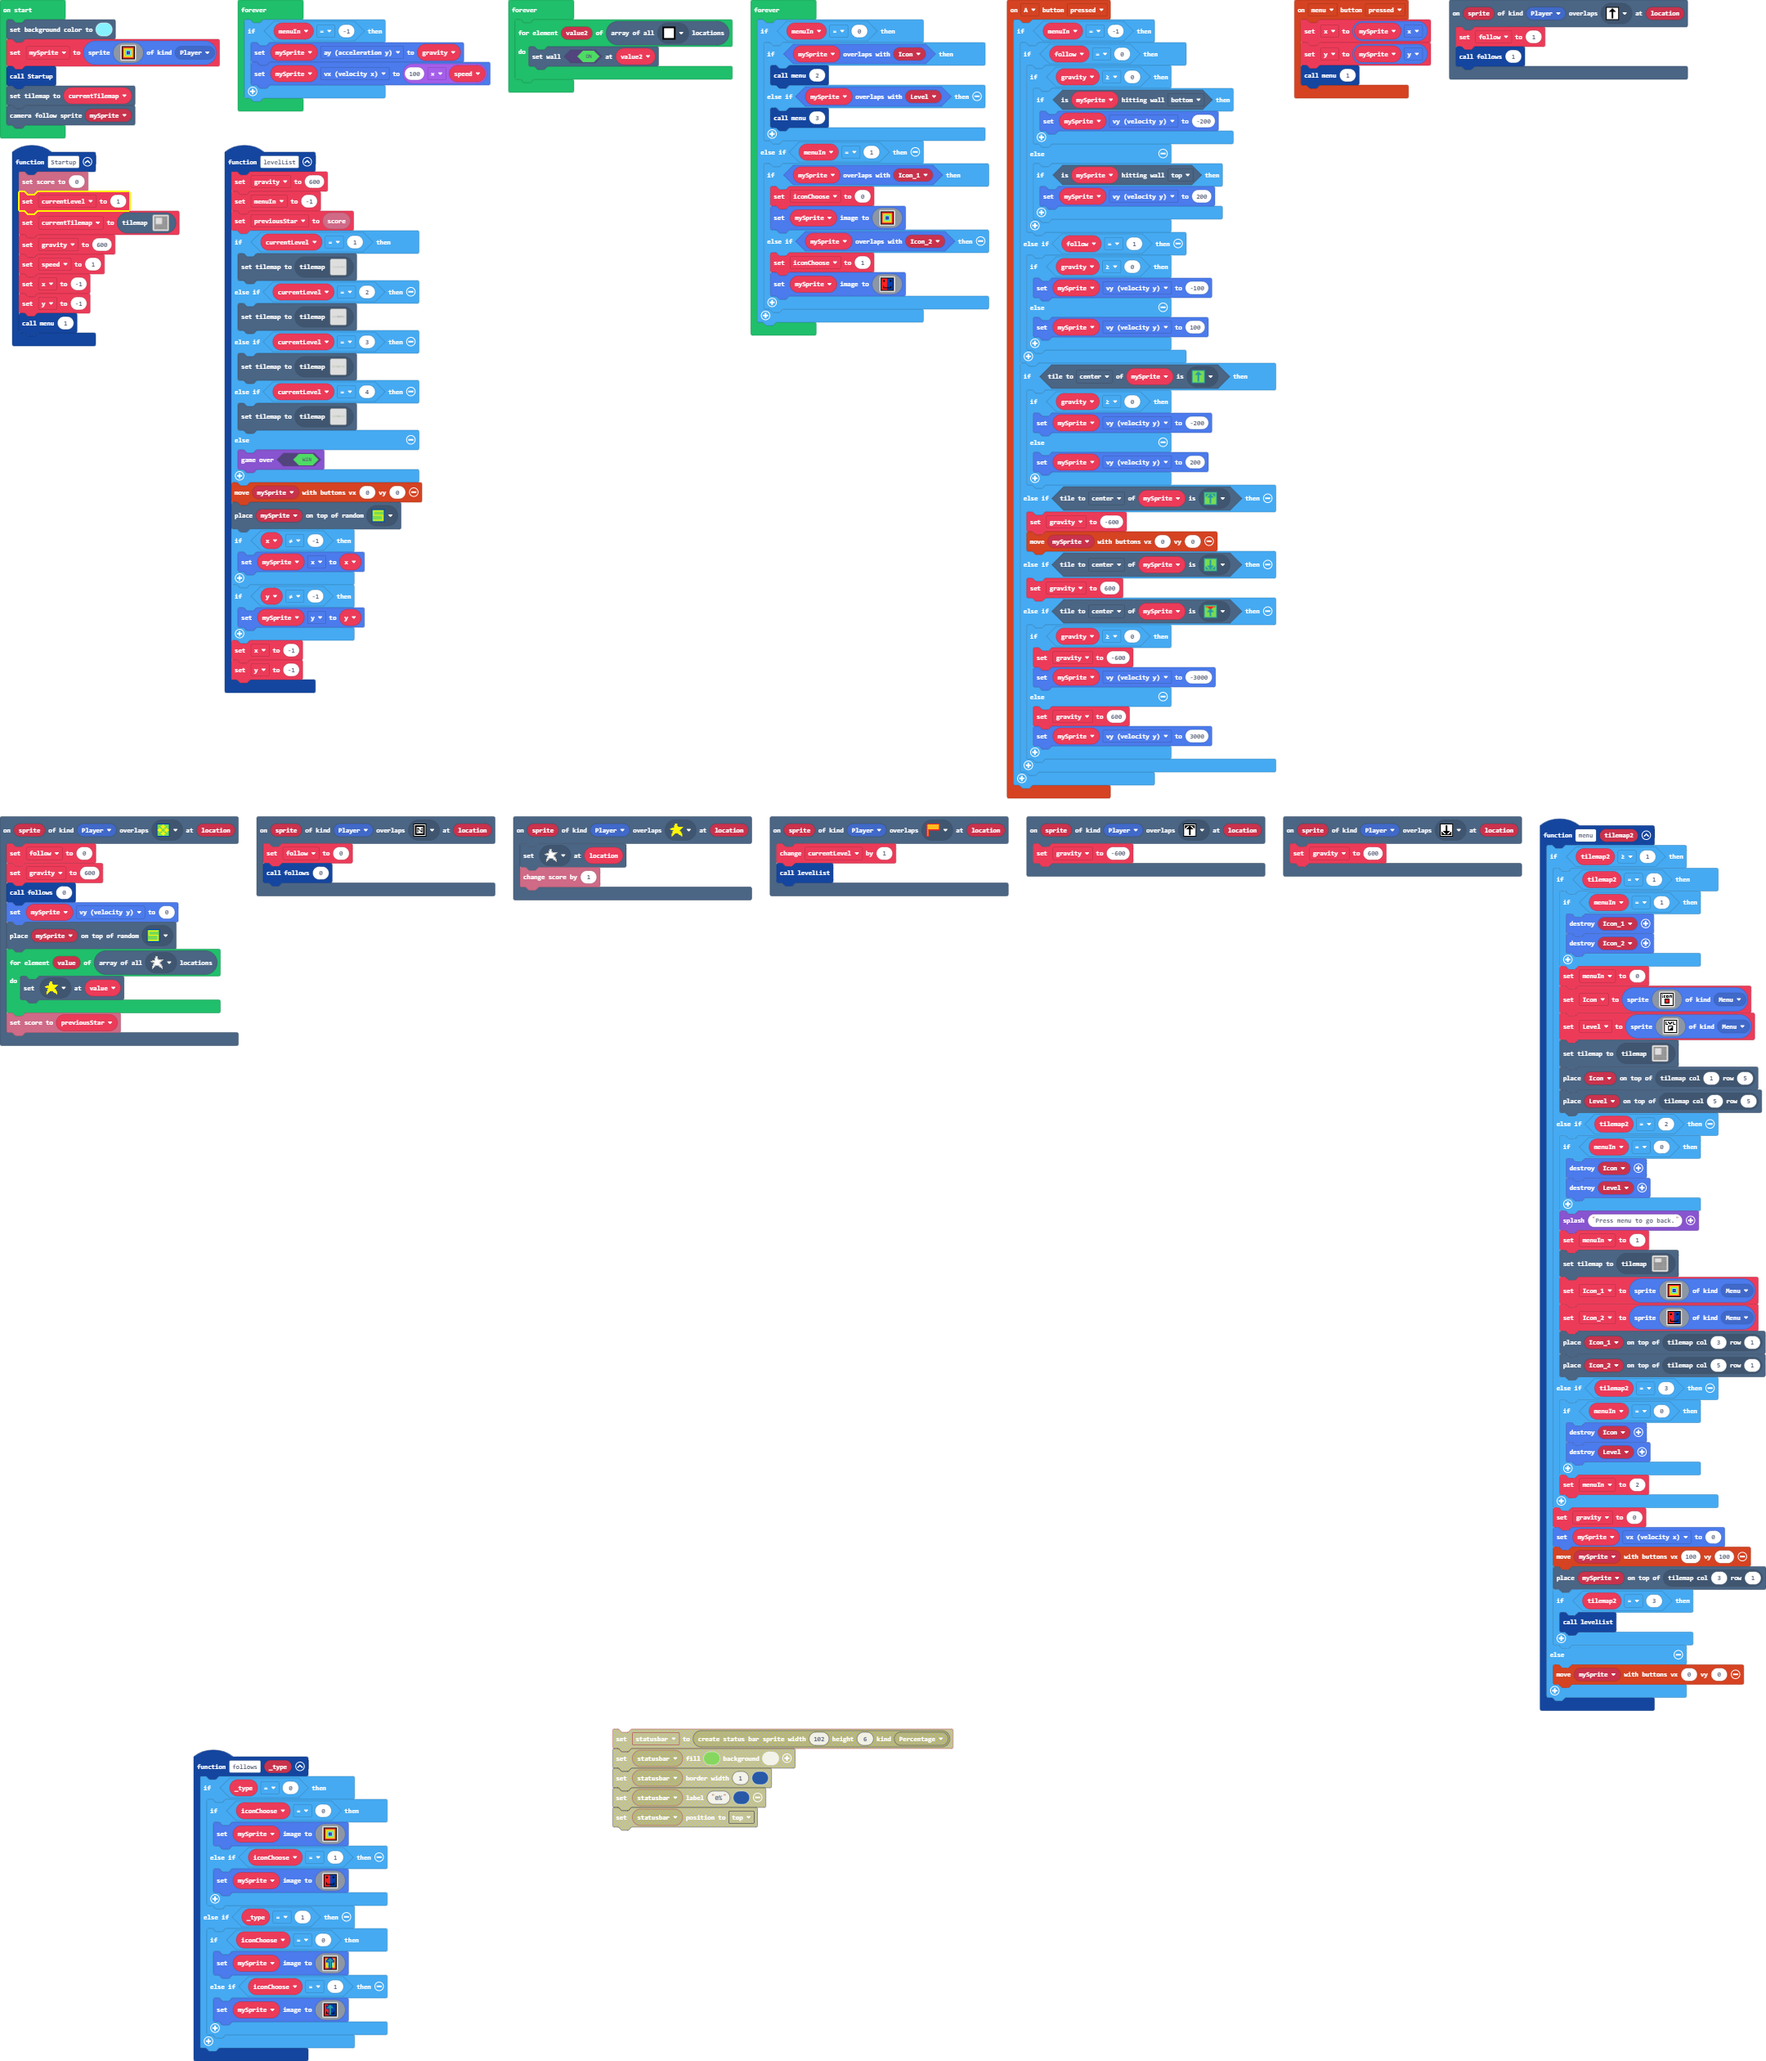
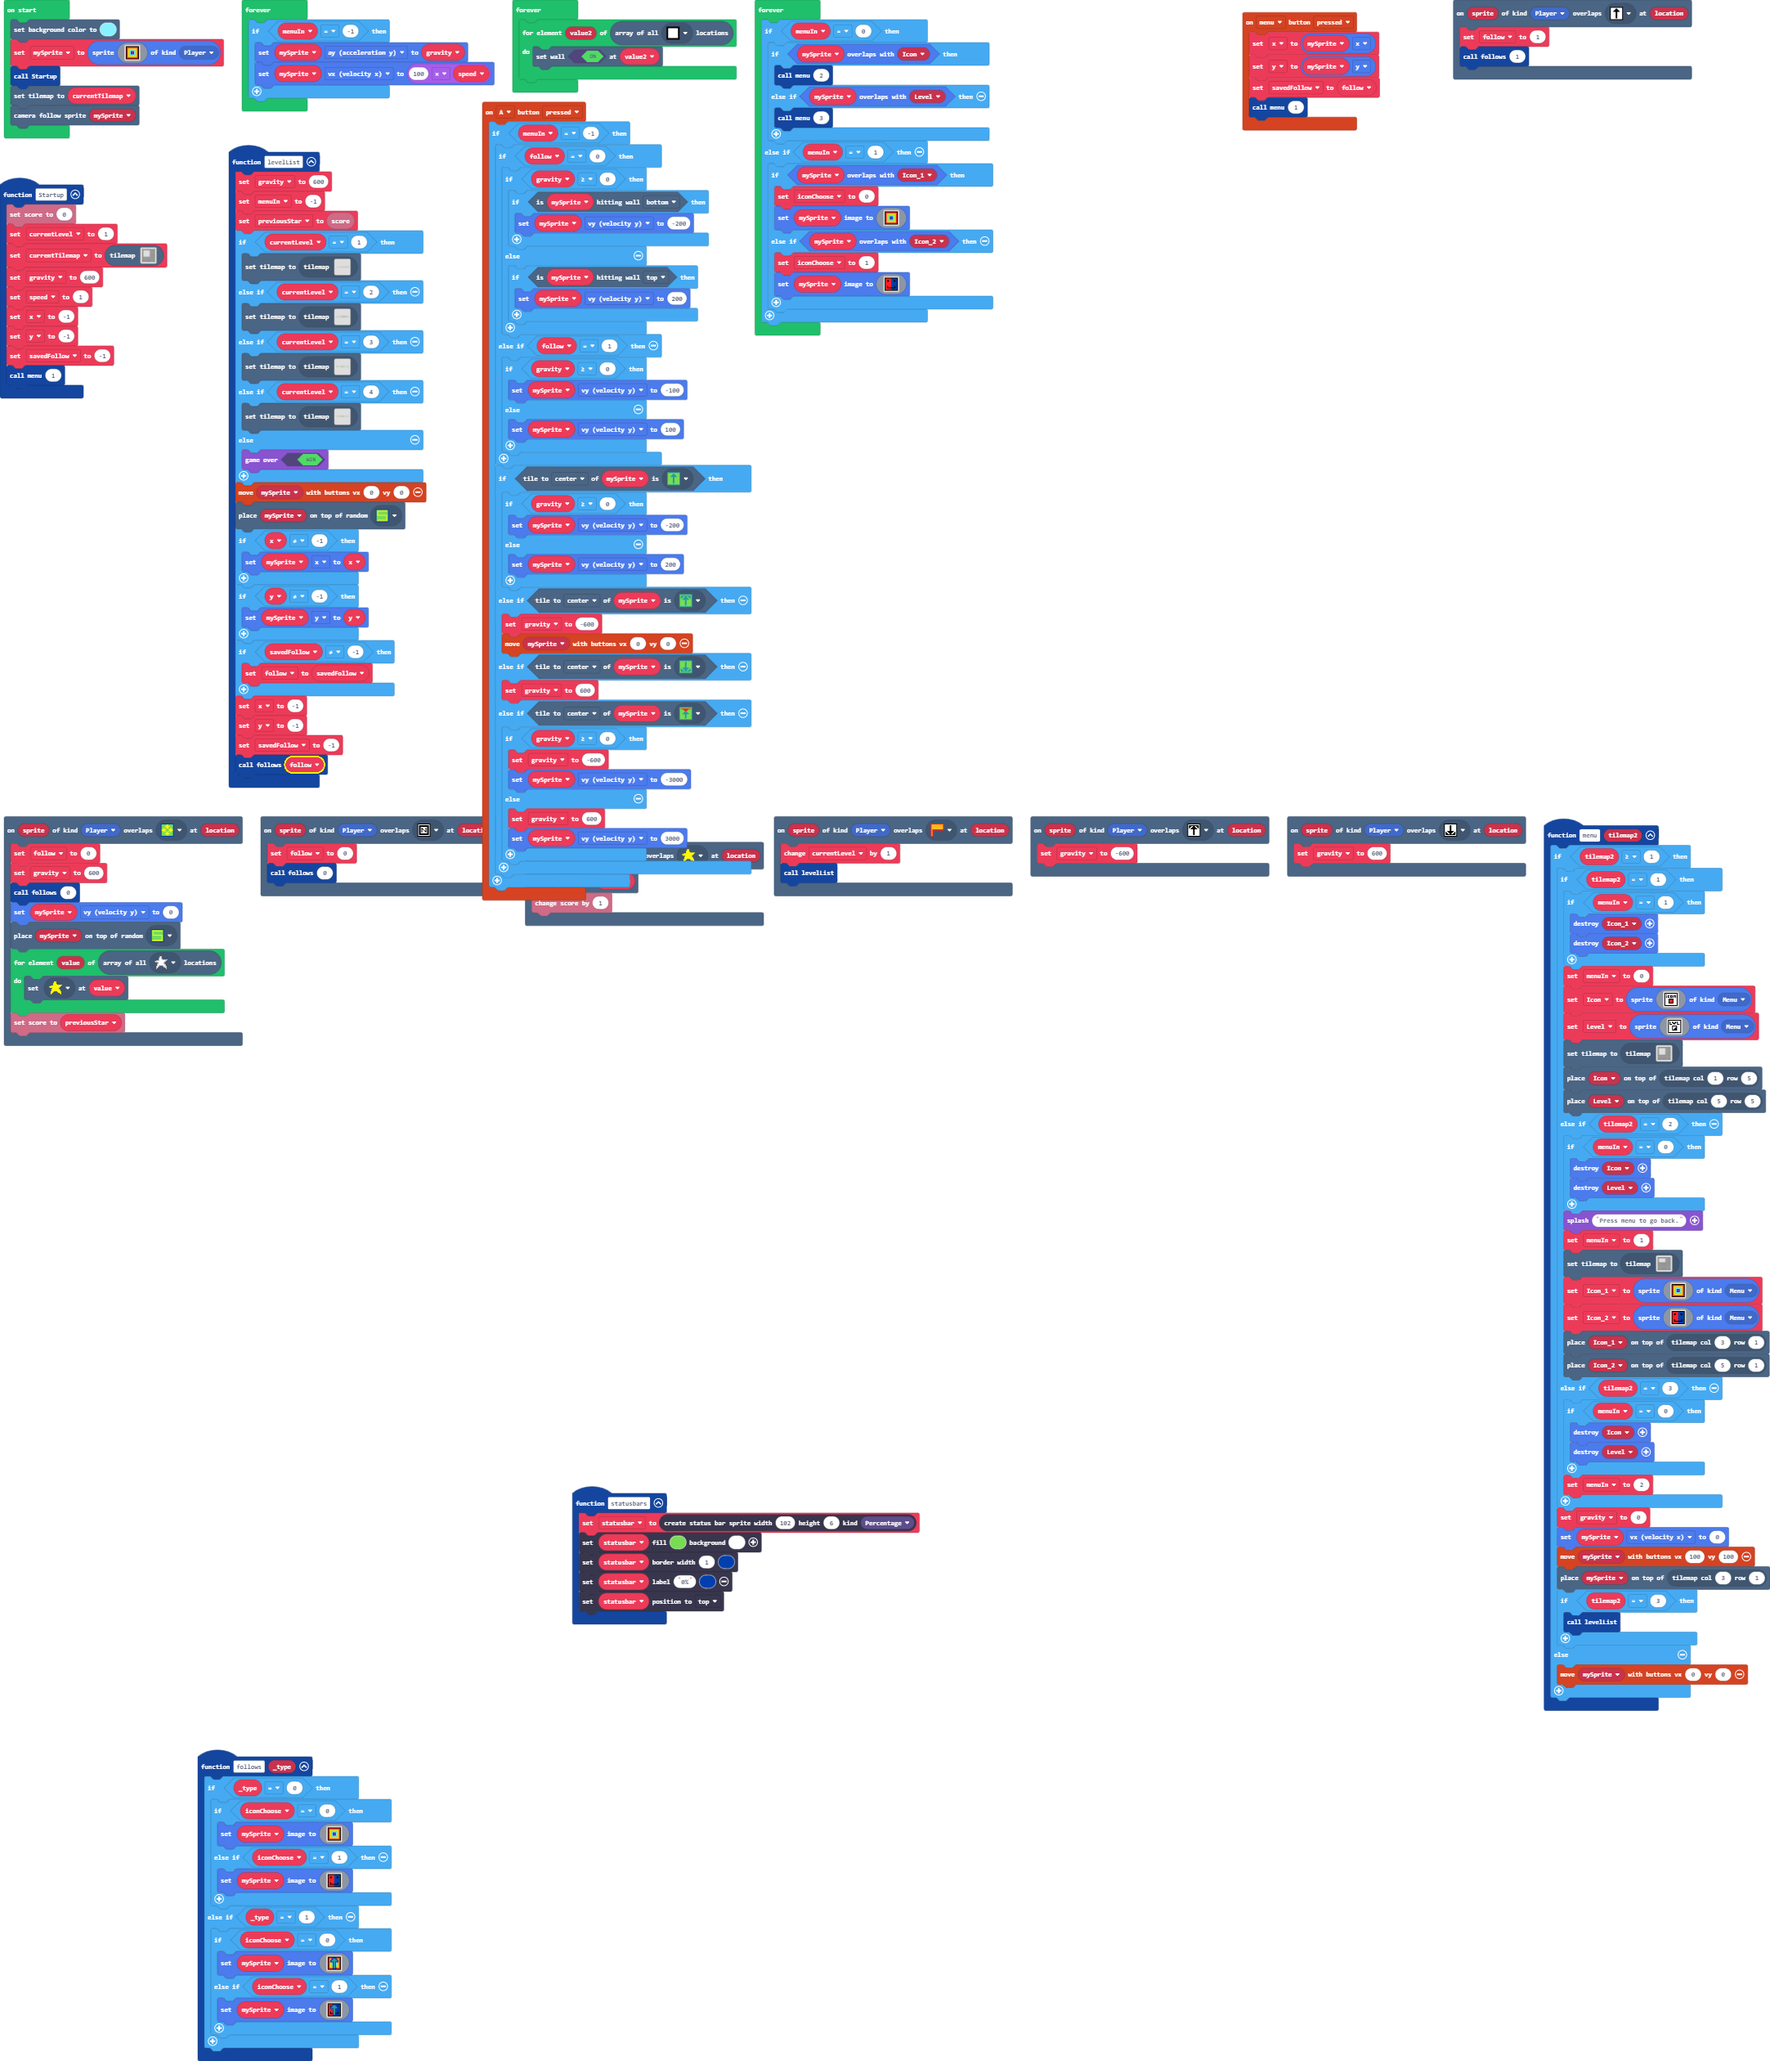
Update main.blocks, main.ts

diff --git a/main.ts b/main.ts
@@ -110,6 +110,13 @@ scene.onOverlapTile(SpriteKind.Player, assets.tile`Jumper Follow`, function (spr
     follow = 1
     follows(1)
 })
+function statusbars2 () {
+    statusbar = statusbars.create(102, 6, StatusBarKind.Percentage)
+    statusbar.setColor(7, 1)
+    statusbar.setBarBorder(1, 8)
+    statusbar.setLabel("0%", 8)
+    statusbar.positionDirection(CollisionDirection.Top)
+}
 function Startup () {
     info.setScore(0)
     currentLevel = 1
@@ -118,11 +125,13 @@ function Startup () {
     speed = 1
     x = -1
     y = -1
+    savedFollow = -1
     menu(1)
 }
 controller.menu.onEvent(ControllerButtonEvent.Pressed, function () {
     x = mySprite.x
     y = mySprite.y
+    savedFollow = follow
     menu(1)
 })
 function levelList () {
@@ -148,8 +157,13 @@ function levelList () {
     if (y != -1) {
         mySprite.y = y
     }
+    if (savedFollow != -1) {
+        follow = savedFollow
+    }
     x = -1
     y = -1
+    savedFollow = -1
+    follows(follow)
 }
 function follows (_type: number) {
     if (_type == 0) {
@@ -179,9 +193,11 @@ scene.onOverlapTile(SpriteKind.Player, assets.tile`Start Teleporter`, function (
 })
 let iconChoose = 0
 let previousStar = 0
+let savedFollow = 0
 let y = 0
 let x = 0
 let speed = 0
+let statusbar: StatusBarSprite = null
 let currentLevel = 0
 let follow = 0
 let Level: Sprite = null
